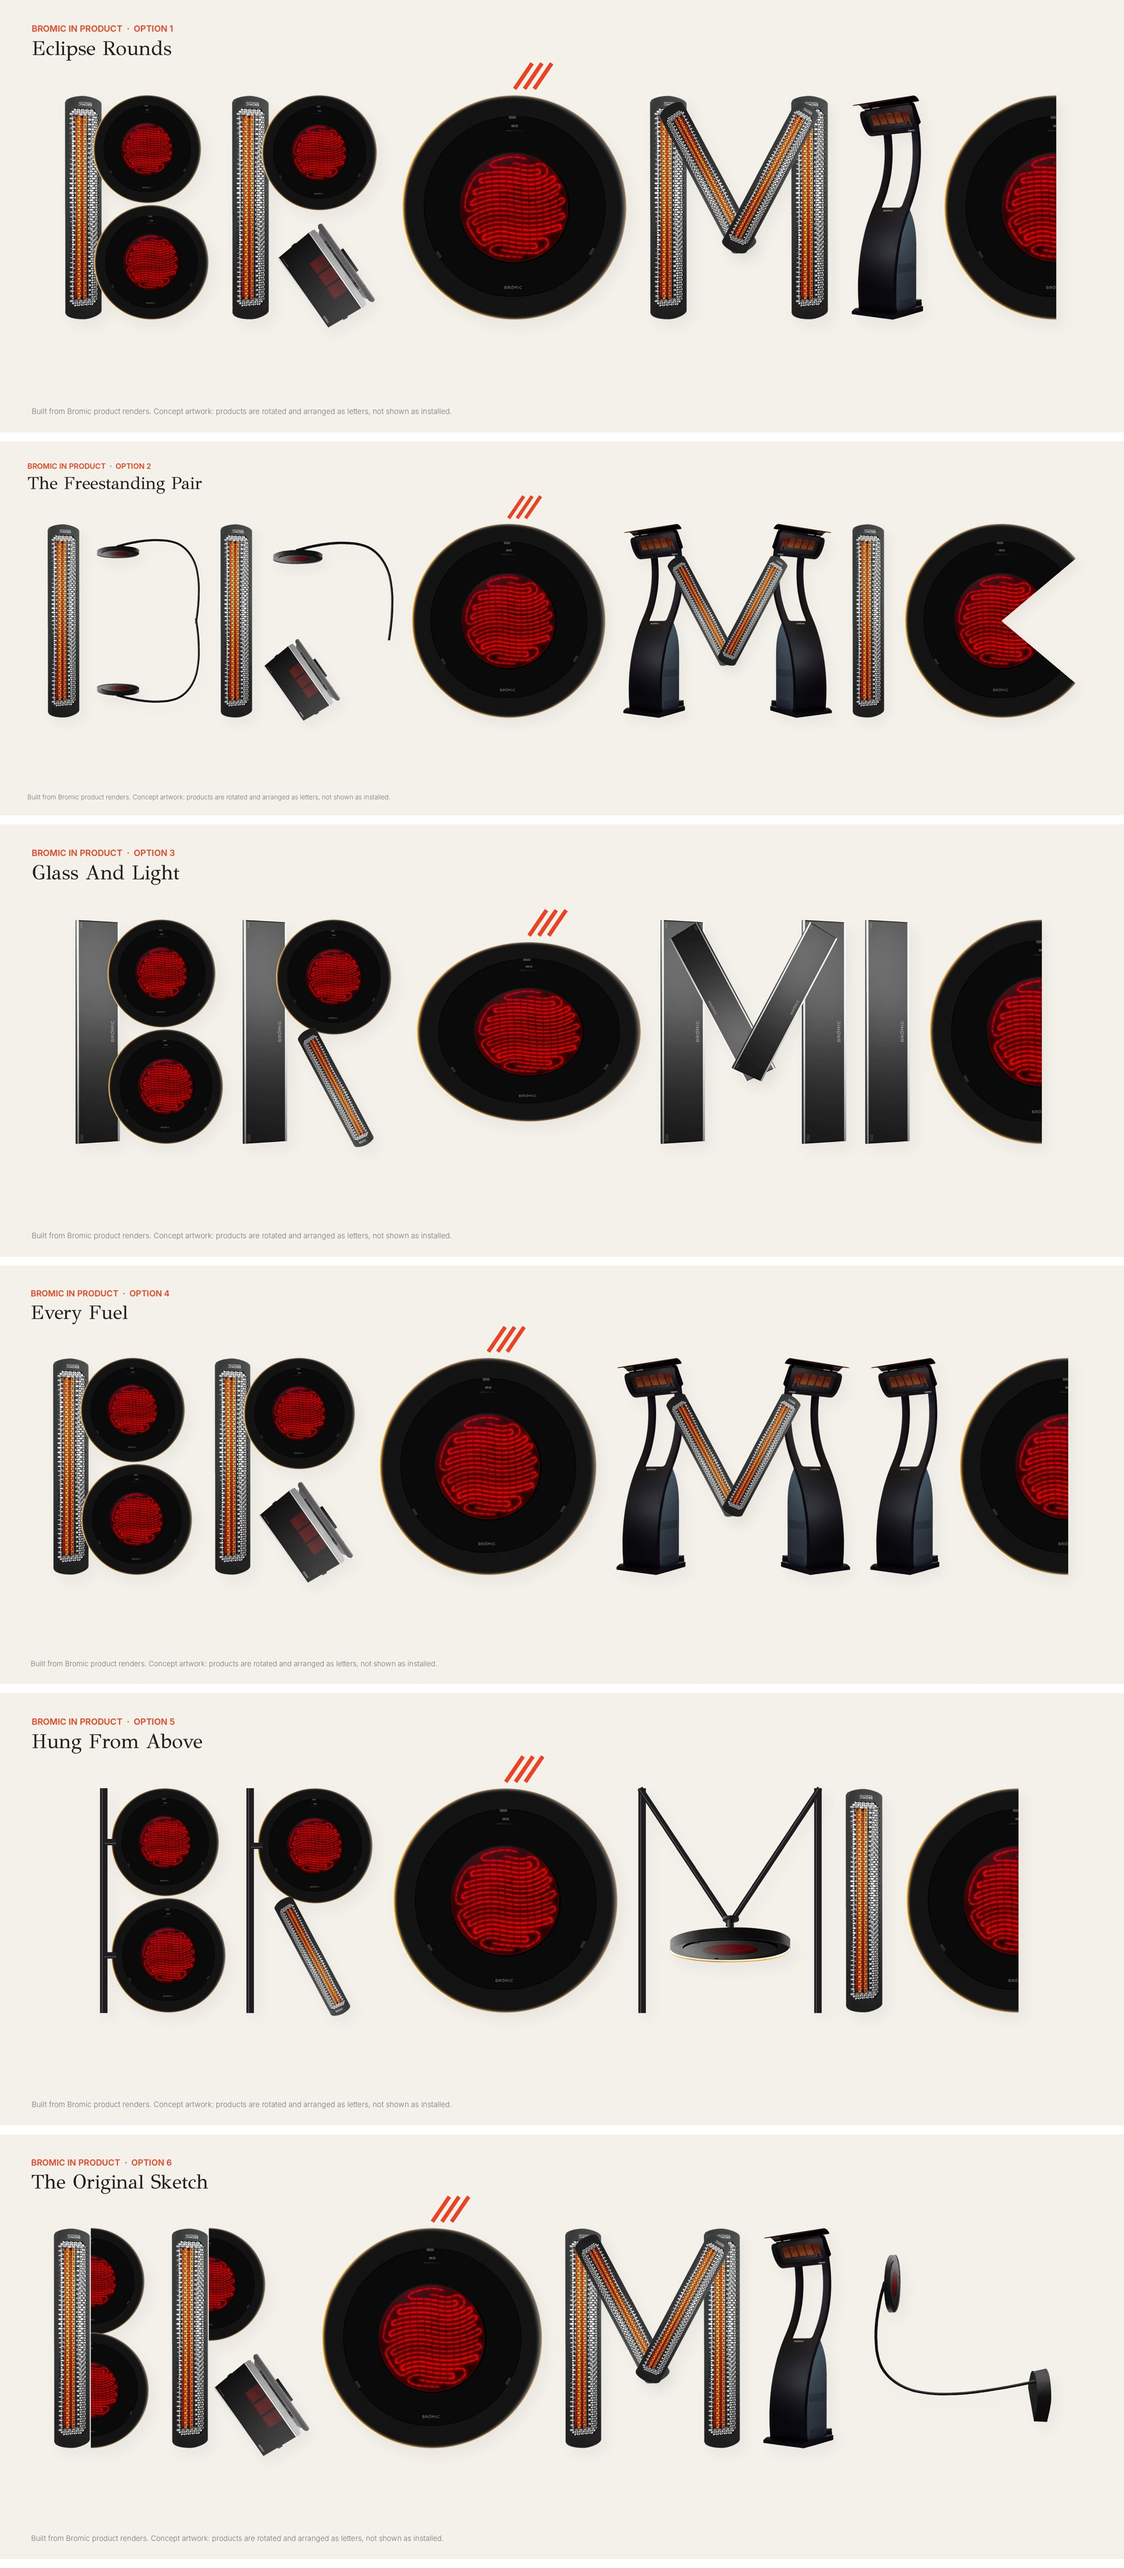
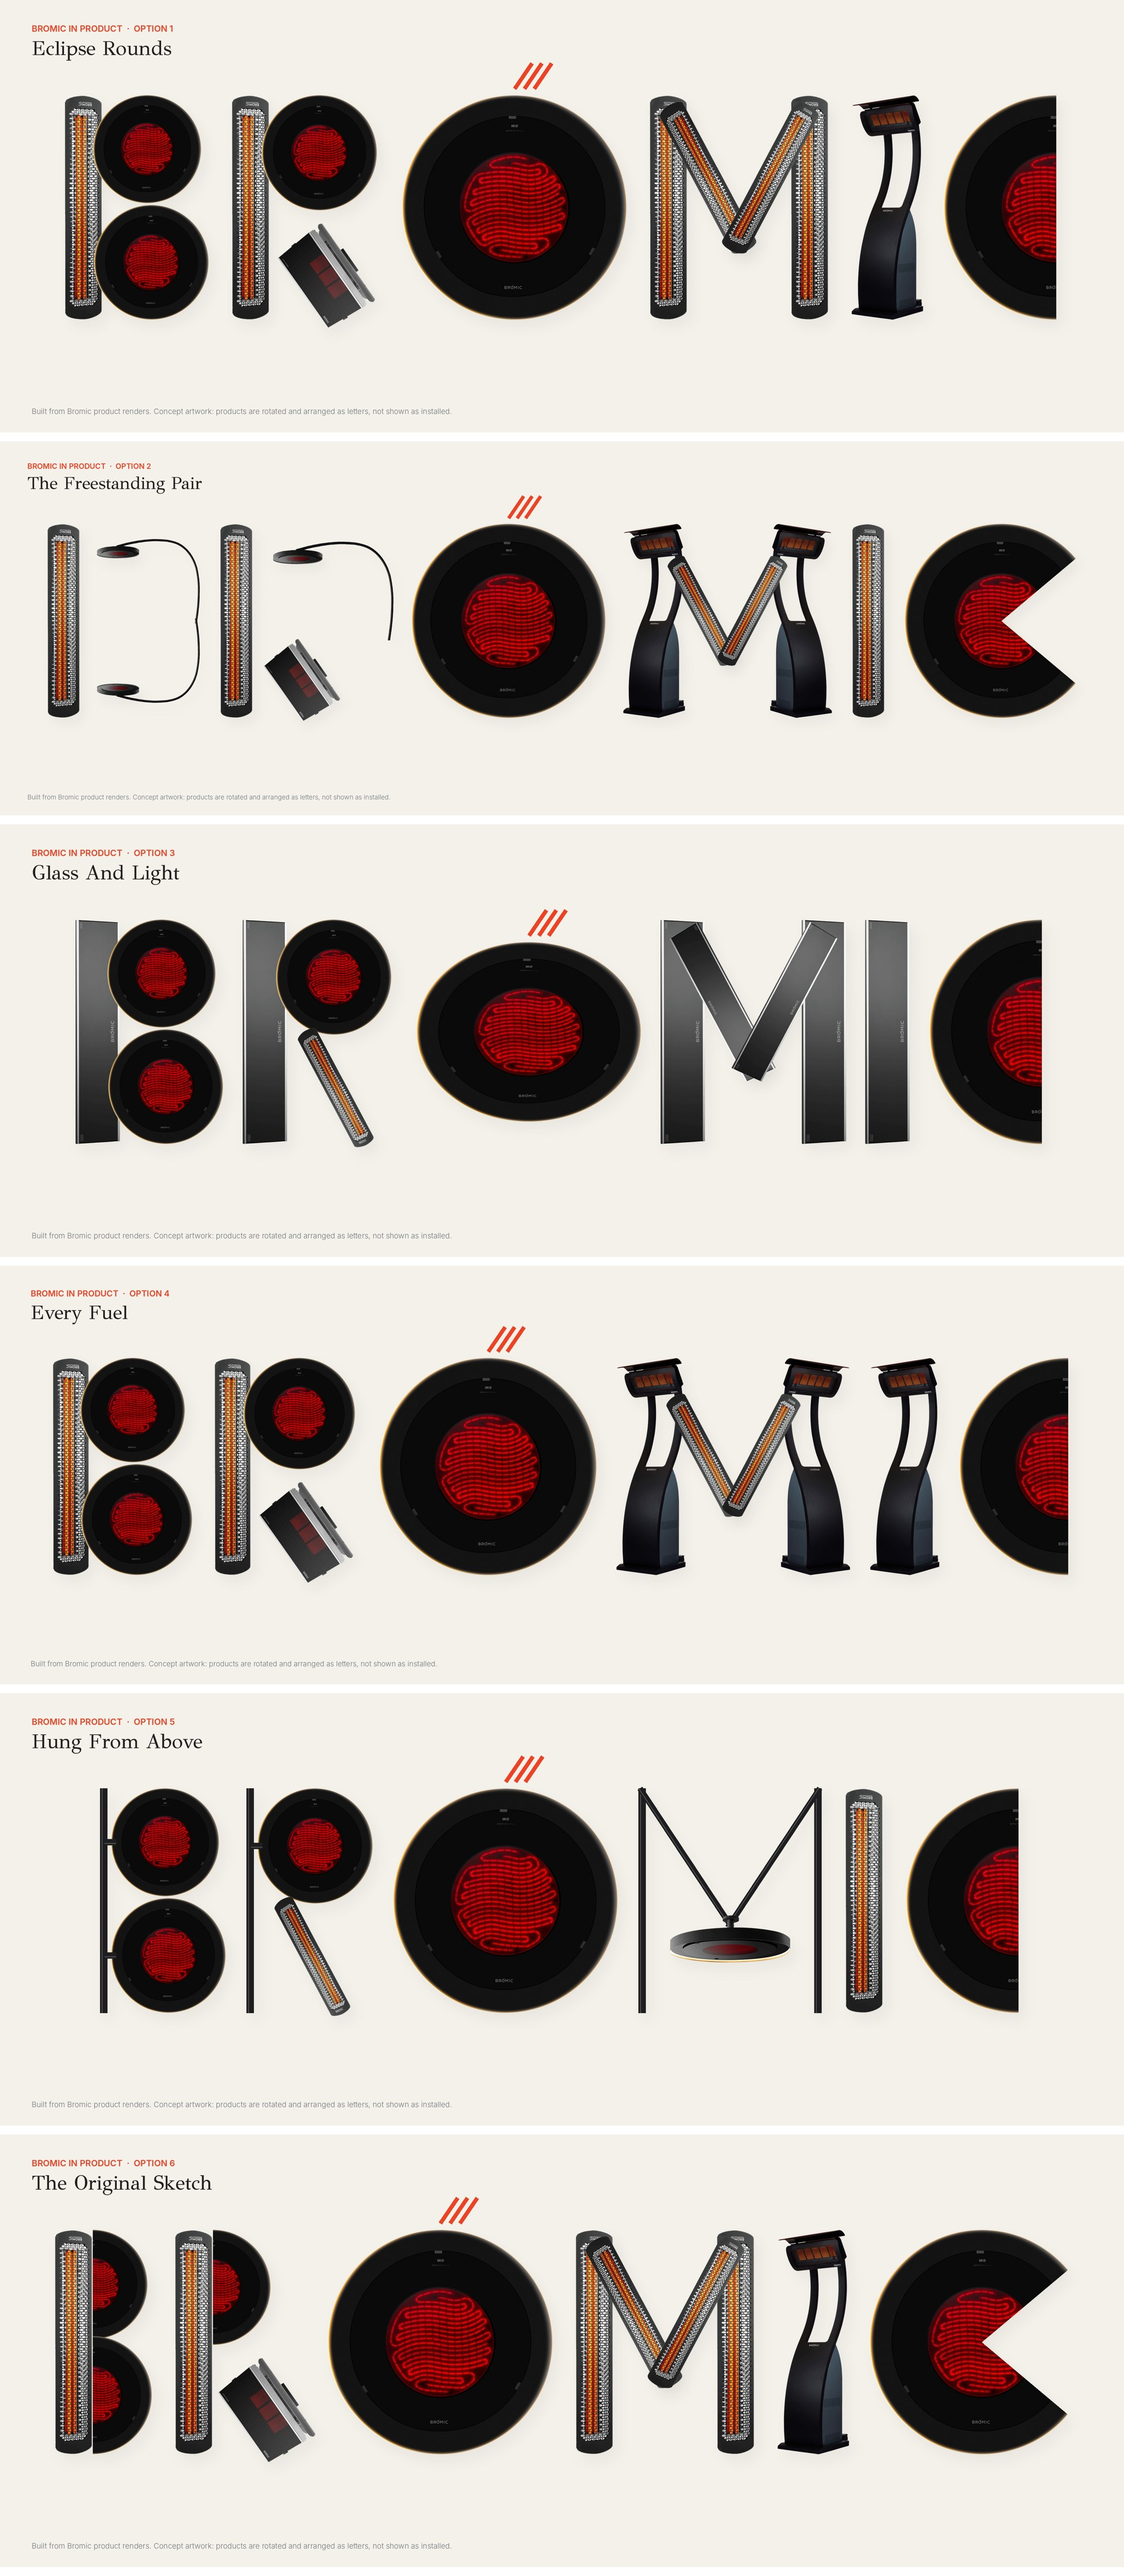
BROMIC in product, option 6: Pac-Man Eclipse for the C

diff --git a/decks/build-wordmark-real.py b/decks/build-wordmark-real.py
@@ -97,7 +97,7 @@ def C_fsrot(x):  # Eclipse Freestanding, mirrored and turned a quarter: disc at 
 def C_fsbig(x):
   w,_=put(P['efs'],0,0,h=HL*1.08); LAY.pop(); put(P['efs'],x+w/2,(T+BS)/2-HL*0.04,h=HL*1.08,flipx=True); return x+w
 OPTIONS=[
- ('6','The Original Sketch',[(B_halves,{}),(R_half,{}),(O_face,{}),(M_lin,{}),(I_port,{}),(C_fsrot,{})]),
+ ('6','The Original Sketch',[(B_halves,{}),(R_half,{}),(O_face,{}),(M_lin,{}),(I_port,{}),(C_open,{})]),
  ('1','Eclipse Rounds',[(B_eclipses,{}),(R_eclipse,{}),(O_face,{}),(M_lin,{}),(I_port,{}),(C_half,{})]),
  ('2','The Freestanding Pair',[(B_fs,{}),(R_fs,{}),(O_face,{}),(M_towers,{}),(I_lin,{}),(C_open,{})]),
  ('3','Glass And Light',[(B_eclipses,{'kind':'platinum'}),(R_eclipse,{'kind':'platinum','leg':'tungsten'}),(O_tilt,{}),(M_lin,{'kind':'platinum'}),(I_lin,{'kind':'platinum'}),(C_half,{})]),
